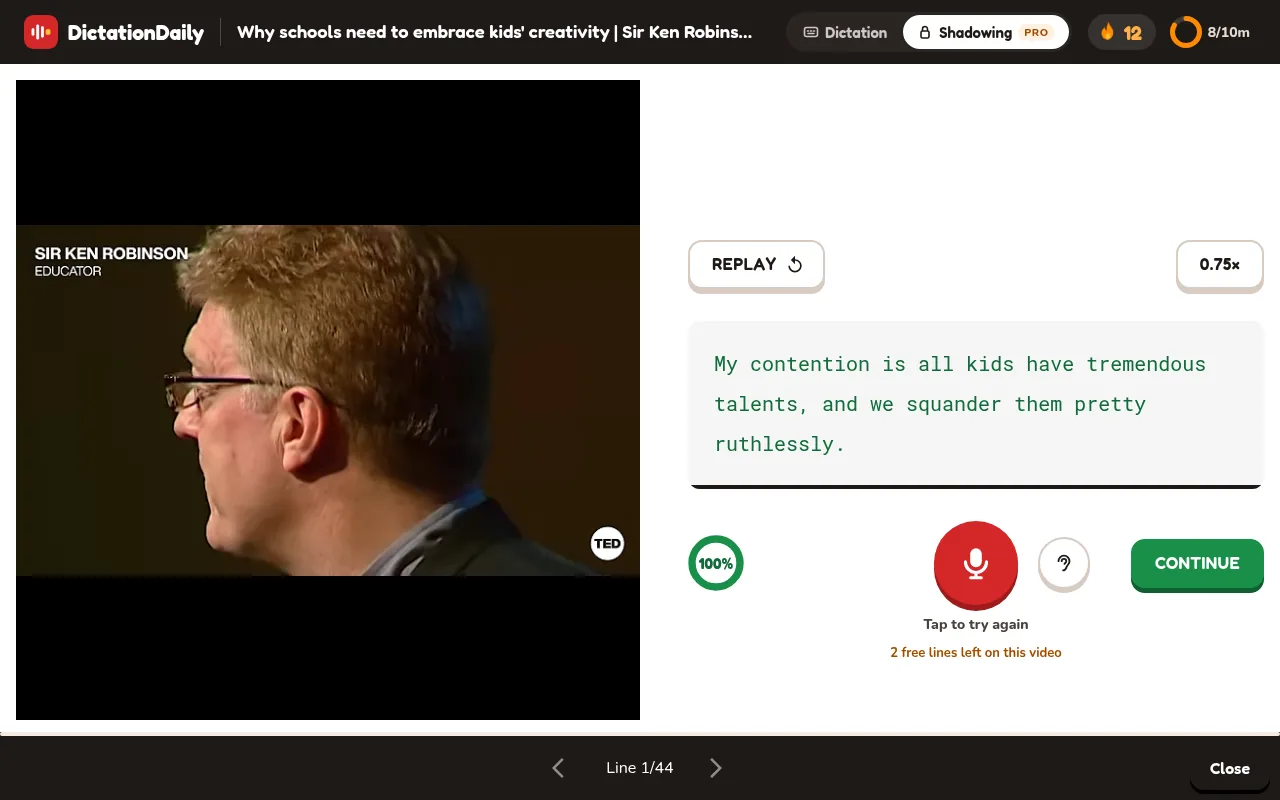
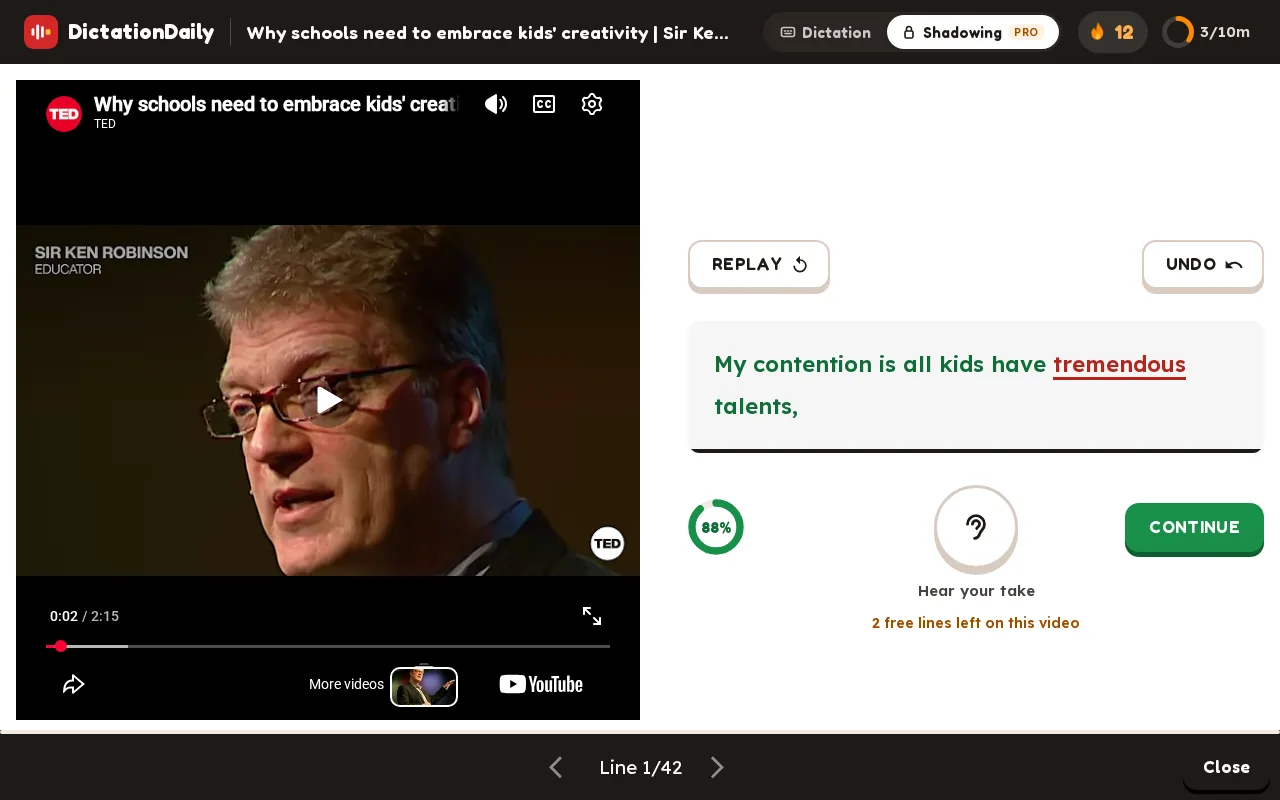
Retake the Shadowing pictures with UNDO and no 0.75×

diff --git a/src/pages/shadowing.html b/src/pages/shadowing.html
@@ -19,7 +19,7 @@
     <div class="card"><p class="card-icon">✅</p><p class="card-title">3. See the result</p><p class="card-text">Green words were heard clearly, red underlined ones were not. With a mother tongue set, the line's translation appears under it, as in Dictation. The big ear button plays your take. <strong>UNDO</strong> (or <kbd>Esc</kbd>) tries again, as in Dictation: the line plays again and the microphone opens.</p></div>
     <div class="card"><p class="card-icon">➡</p><p class="card-title">4. Continue</p><p class="card-text"><strong>CONTINUE</strong> (or <kbd>Space</kbd>) moves on, and the next line plays by itself.</p></div>
 </div>
-<shot src="shadowing-result" caption="After a take: the line in colour, the microphone and the ear button, the score and CONTINUE." alt="The result card: the line in green with a missed word underlined in red, a red microphone and an ear button, a score ring and a CONTINUE button">
+<shot src="shadowing-result" caption="After a take: the line in colour, UNDO to try again, the ear button to hear yourself, the score and CONTINUE." alt="The result card: REPLAY and UNDO keycaps, the line in green with a missed word underlined in red, a big ear button saying Hear your take, a score ring and a CONTINUE button">
 <div class="callout callout-tip"><span class="callout-icon">💡</span><div><strong>The same lines as Dictation.</strong> A Shadowing line is a Dictation sentence: the same cut, the same text and the same translation under it. Parts that aren't clear speech (music, other languages, unclear words) aren't lines, but they aren't skipped either: they play as <strong>Just listen</strong> stretches, like in Dictation, and move on by themselves. <kbd>Space</kbd> skips one.</div></div>
 
 <shot src="shadowing-listen" caption="A stretch that isn't a line: it just plays, and Space skips it." alt="The Just listen card in Shadowing: the skipped text, REPLAY, Space to skip, and Listening in the bottom bar">
